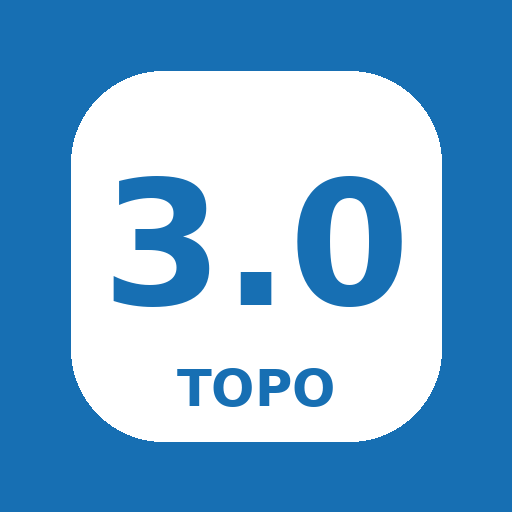
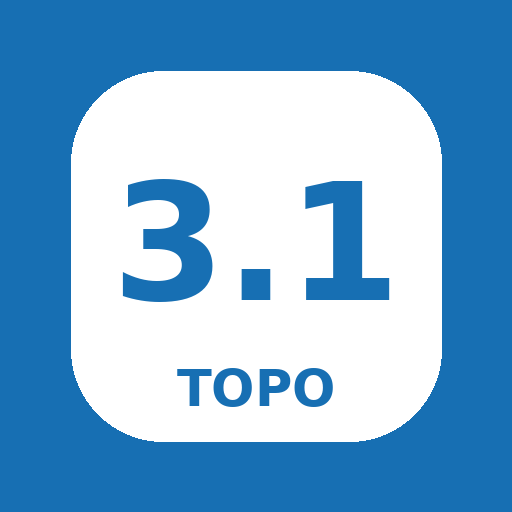
Add files via upload
Input onder topo

diff --git a/index.html b/index.html
@@ -4,7 +4,7 @@
 <head>
 <meta charset="utf-8"/>
 <meta content="width=device-width, initial-scale=1, viewport-fit=cover" name="viewport"/>
-<title>Topo Trainer Friesland 3.0</title>
+<title>Topo Trainer Friesland 3.1</title>
 <style>
 :root {
   --bg:#f3f7f8; --panel:#fff; --text:#1d2632; --muted:#6b7280;
@@ -416,23 +416,37 @@ header {
 }
 
 .writePanel {
+  position:absolute;
+  z-index:40;
   display:none;
-  grid-template-columns:minmax(0,1fr) auto;
-  gap:8px;
-  margin-top:8px;
+  grid-template-columns:minmax(0,150px) auto;
+  gap:5px;
+  width:max-content;
+  max-width:calc(100% - 12px);
+  padding:5px;
+  border:1px solid rgba(23,32,44,.18);
+  border-radius:10px;
+  background:rgba(255,255,255,.97);
+  box-shadow:0 5px 16px rgba(15,23,42,.22);
+  transform:translate(-50%,0);
 }
 .writePanel.show {
   display:grid;
 }
+.writePanel.above {
+  transform:translate(-50%,-100%);
+}
 .writePanel input {
+  width:150px;
   min-width:0;
+  box-sizing:border-box;
   border:1px solid var(--line);
-  border-radius:11px;
-  padding:11px 12px;
+  border-radius:8px;
+  padding:7px 9px;
   background:#fff;
   color:#17202c;
   font:inherit;
-  font-size:1rem;
+  font-size:.92rem;
   outline:none;
 }
 .writePanel input:focus {
@@ -440,6 +454,10 @@ header {
   box-shadow:0 0 0 3px rgba(31,124,184,.13);
 }
 .writePanel button {
+  min-width:42px;
+  padding:7px 9px;
+  border-radius:8px;
+  font-size:.88rem;
   white-space:nowrap;
 }
 
@@ -461,7 +479,11 @@ header {
 
 @media(max-width:560px) {
   .writePanel {
-    grid-template-columns:1fr;
+    grid-template-columns:minmax(0,140px) auto;
+  }
+  .writePanel input {
+    width:140px;
+    font-size:.9rem;
   }
   .quizTypeRow label {
     font-size:.88rem;
@@ -475,6 +497,7 @@ header {
 <meta name="apple-mobile-web-app-title" content="Topo Trainer Friesland">
 <link rel="manifest" href="./manifest.webmanifest">
 <link rel="apple-touch-icon" href="./icon-180.png">
+
 </head>
 <body>
 <input class="stateInput" id="namesToggle" type="checkbox"/>
@@ -485,7 +508,7 @@ header {
 <header>
 <h1>Topo Trainer – Friesland</h1>
 <div class="subtitle">Plaatsen, wateren, eilanden en streken leren en overhoren op een kale kaart.</div>
-<div class="versionNumber">Versie 3.0</div>
+<div class="versionNumber">Versie 3.1</div>
 <label aria-label="Help openen" class="helpButton" for="helpToggle" id="helpButton">?</label></header>
 <section class="card controls">
 <div class="toggles">
@@ -511,7 +534,6 @@ header {
 <label for="quizTypeMix">Mix</label>
 </div>
 </div>
-
 <div class="legend">
 <div class="legendItem"><span class="legendSwatch place"></span><span>Plaatsen</span></div>
 <div class="legendItem"><span class="legendSwatch water"></span><span>Wateren</span></div>
@@ -531,10 +553,6 @@ header {
 <small id="questionLabel">Overhoring</small>
 <strong id="questionText">Druk op ‘Nieuwe vraag’.</strong>
 </div>
-</div>
-<div class="writePanel" id="writePanel">
-<input autocapitalize="words" autocomplete="off" id="answerInput" placeholder="Typ de naam" spellcheck="false" type="text"/>
-<button id="checkAnswer" type="button">Controleren</button>
 </div>
 
 <div class="quizActions">
@@ -646,7 +664,10 @@ header {
 <div class="reveal reveal-region" data-key="streek-het-bildt" style="left:50.8%;top:35.4%;transform:translate(-50%,-50%) rotate(0deg);">H e t  B i l d t</div>
 <input class="spotCheck" id="spot-streek-gaasterland" tabindex="-1" type="checkbox"/>
 <label aria-label="Gaasterland" class="hotspot hotspot-region" data-key="streek-gaasterland" data-name="Gaasterland" for="spot-streek-gaasterland" style="left:44.6%;top:85.6%"></label>
-<div class="reveal reveal-region" data-key="streek-gaasterland" style="left:45.4%;top:85.0%;transform:translate(-50%,-50%) rotate(0deg);">G a a s t e r l a n d</div></div>
+<div class="reveal reveal-region" data-key="streek-gaasterland" style="left:45.4%;top:85.0%;transform:translate(-50%,-50%) rotate(0deg);">G a a s t e r l a n d</div><div class="writePanel" id="writePanel">
+<input autocapitalize="words" autocomplete="off" id="answerInput" placeholder="Typ de naam" spellcheck="false" type="text"/>
+<button aria-label="Antwoord controleren" id="checkAnswer" type="button">OK</button>
+</div></div>
 <div class="small">Legenda: ronde punten zijn plaatsen; bredere vlakken zijn wateren, eilanden of streken. De legenda is alleen ter uitleg en is geen filter.</div>
 </section>
 <aside class="card side">
@@ -816,7 +837,7 @@ header {
 </div>
 <div class="helpSection">
 <h3>Overhoren</h3>
-<p><strong>Overhoortype:</strong> bij <strong>Aanwijzen</strong> krijg je een naam en wijs je de juiste plek aan. Bij <strong>Schrijven</strong> wordt een plek gemarkeerd en typ je de naam. <strong>Mix</strong> wisselt beide vraagsoorten door elkaar.</p><p>In Overhoren zijn de namen altijd verborgen. Bij <strong>Alleen uit geleerde lijst</strong> worden alleen de aangevinkte onderdelen gevraagd. Staat die schakelaar uit, dan kan alle topografie worden gevraagd.</p>
+<p><strong>Overhoortype:</strong> bij <strong>Aanwijzen</strong> krijg je een naam en wijs je de juiste plek aan. Bij <strong>Schrijven</strong> wordt een plek gemarkeerd en verschijnt een klein antwoordvak direct bij die plek. <strong>Mix</strong> wisselt beide vraagsoorten door elkaar.</p><p>In Overhoren zijn de namen altijd verborgen. Bij <strong>Alleen uit geleerde lijst</strong> worden alleen de aangevinkte onderdelen gevraagd. Staat die schakelaar uit, dan kan alle topografie worden gevraagd.</p>
 <p>Een onderdeel komt normaal maar één keer per ronde langs. Kies je fout, dan blijft dezelfde vraag staan tot het goede antwoord is gekozen en komt dat onderdeel later in dezelfde ronde nog eens terug.</p>
 <p>Na <strong>3 foute antwoorden</strong> verschijnt extra hulp: bij Aanwijzen wordt de juiste naam zichtbaar en bij Schrijven verschijnt de naam bij de gemarkeerde plek.</p>
 </div>
@@ -1046,9 +1067,51 @@ header {
     if (h) h.classList.add("promptTarget");
   }
 
+  function positionWritePanel() {
+    if (!current || currentQuestionType !== "write") return;
+
+    const h = hotspots.find(x => x.dataset.key === current.key);
+    if (!h) return;
+
+    const mapRect = mapWrap.getBoundingClientRect();
+    const hRect = h.getBoundingClientRect();
+
+    // Eerst zichtbaar maken zodat breedte/hoogte gemeten kunnen worden.
+    writePanel.classList.add("show");
+    writePanel.classList.remove("above");
+
+    let x = (hRect.left - mapRect.left) + (hRect.width / 2);
+    let y = (hRect.bottom - mapRect.top) + 12;
+
+    const panelWidth = writePanel.offsetWidth || 200;
+    const panelHeight = writePanel.offsetHeight || 42;
+
+    // Houd het vak horizontaal binnen de kaart.
+    const half = panelWidth / 2;
+    x = Math.max(half + 6, Math.min(mapRect.width - half - 6, x));
+
+    // Onderaan de kaart: boven de topo tonen in plaats van buiten beeld.
+    if (y + panelHeight > mapRect.height - 8) {
+      y = (hRect.top - mapRect.top) - 12;
+      writePanel.classList.add("above");
+    }
+
+    writePanel.style.left = x + "px";
+    writePanel.style.top = y + "px";
+  }
+
   function setWritePanelVisible(show) {
     writePanel.classList.toggle("show", !!show);
-    if (!show) answerInput.value = "";
+
+    if (show) {
+      // Wacht één frame zodat Safari/iPad de afmetingen kent.
+      requestAnimationFrame(positionWritePanel);
+    } else {
+      answerInput.value = "";
+      writePanel.classList.remove("above");
+      writePanel.style.left = "";
+      writePanel.style.top = "";
+    }
   }
 
   function normalizeAnswer(value) {
@@ -1446,6 +1509,13 @@ header {
   });
 
   const mapWrap = document.getElementById("mapWrap");
+  window.addEventListener("resize", function() {
+    if (writePanel.classList.contains("show")) {
+      positionWritePanel();
+    }
+  });
+
+
   mapWrap.addEventListener("contextmenu", function(e) {
     e.preventDefault();
   });
@@ -1473,5 +1543,6 @@ if ("serviceWorker" in navigator) {
   });
 }
 </script>
+
 </body>
 </html>

diff --git a/service-worker.js b/service-worker.js
@@ -1,4 +1,4 @@
-const CACHE_NAME = "topo-trainer-friesland-3-0";
+const CACHE_NAME = "topo-trainer-friesland-3-1";
 const ASSETS = [
   "./",
   "./index.html",
